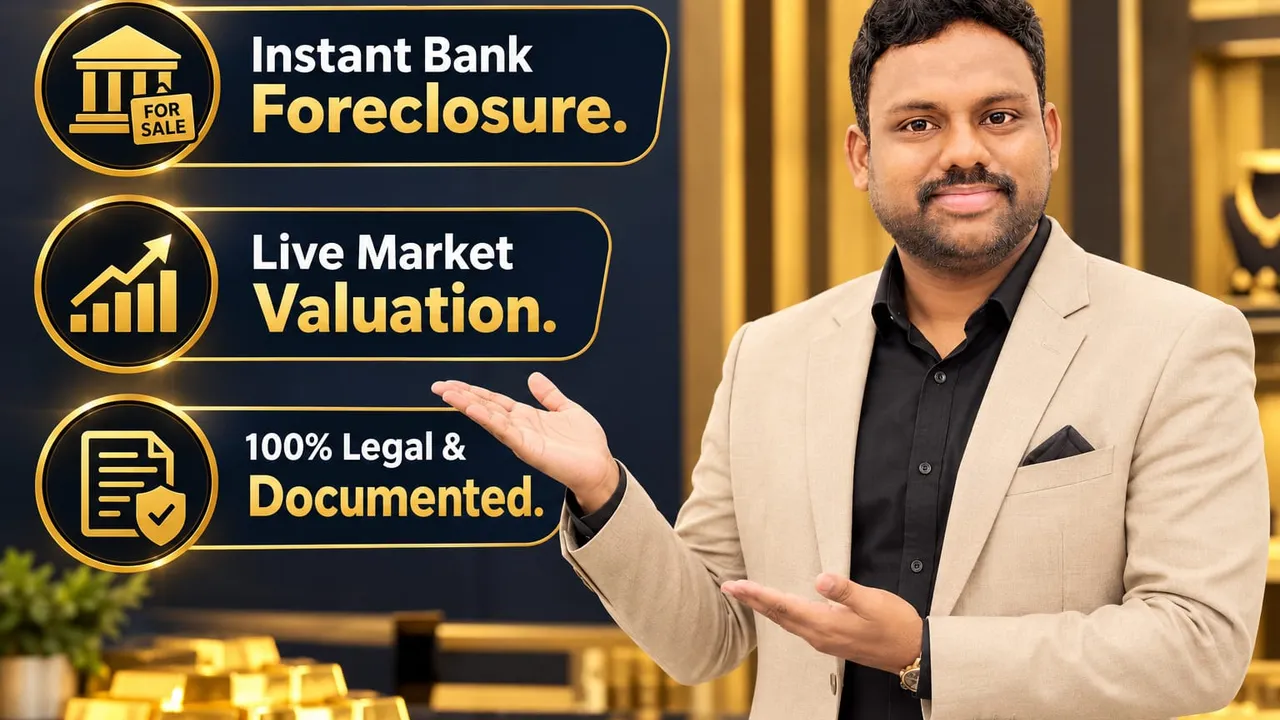
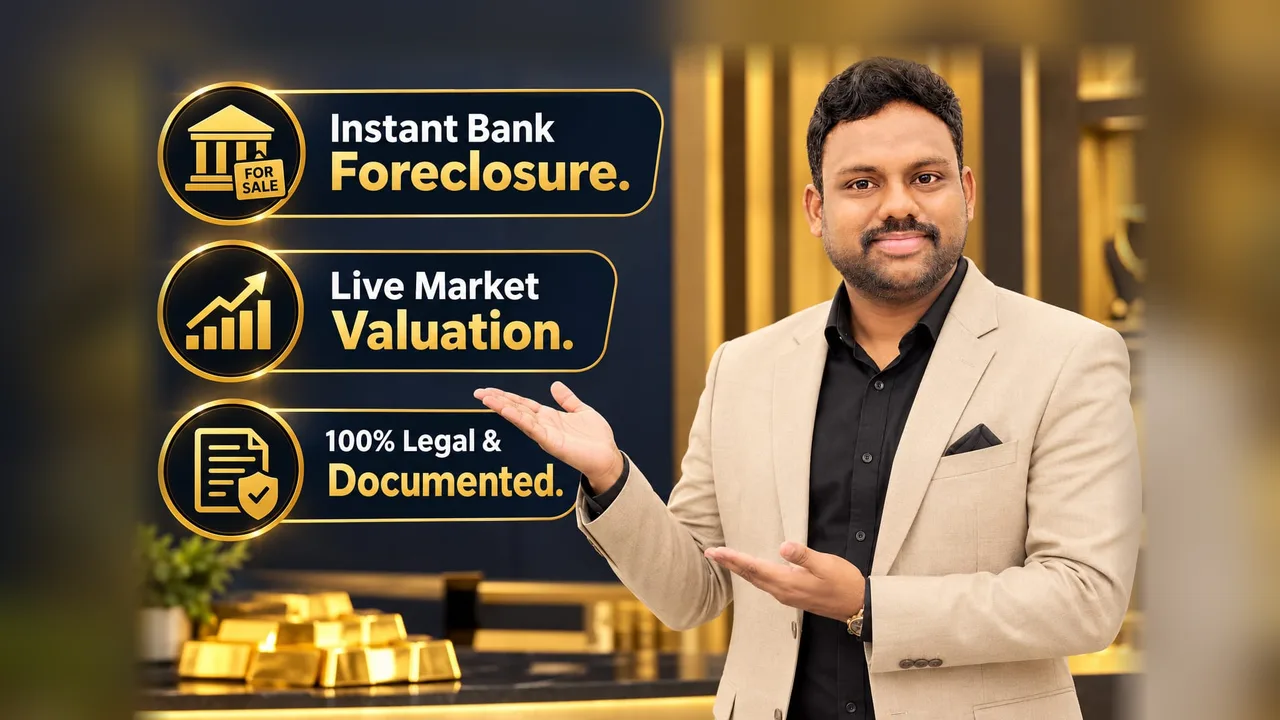
Hero slide 3: show the whole photo so the head is not cut
Rebuild the third banner from the full image with headroom and soft
extended edges, and anchor the slide zoom to the top edge.

Claude-Session: https://claude.ai/code/session_017DbjJk6rcB1LusbF1mvaDt

diff --git a/trust-gold-services/styles.css b/trust-gold-services/styles.css
@@ -270,7 +270,7 @@ html[lang="te"] .hero__title { font-size: clamp(2rem, 4.2vw, 3.3rem); }
 .slider { position: relative; padding: 5px; border-radius: 26px; background: var(--gold-grad); box-shadow: 0 40px 80px -30px rgba(0, 0, 0, .7), 0 0 0 10px rgba(242, 218, 150, .06); }
 .slider__glow { position: absolute; inset: -40px; z-index: -1; background: radial-gradient(circle, rgba(220, 181, 83, .3), transparent 65%); filter: blur(10px); }
 .slider__track { position: relative; overflow: hidden; touch-action: pan-y; cursor: grab; user-select: none; aspect-ratio: 16 / 9; border-radius: 21px; background: var(--navy-2); }
-.slide { position: absolute; inset: 0; width: 100%; height: 100%; object-fit: cover; opacity: 0; transform: scale(1.06); transition: opacity 1s ease, transform 6s ease-out; }
+.slide { position: absolute; inset: 0; width: 100%; height: 100%; object-fit: cover; opacity: 0; transform: scale(1.06); transform-origin: center top; transition: opacity 1s ease, transform 6s ease-out; }
 .slide.is-active { opacity: 1; transform: scale(1); }
 .slider__bar { position: absolute; left: 0; bottom: 0; height: 3px; width: 100%; background: var(--gold-grad); transform-origin: left; transform: scaleX(0); z-index: 2; }
 .slider__bar.is-running { animation: slidebar var(--slide-ms, 5000ms) linear forwards; }
